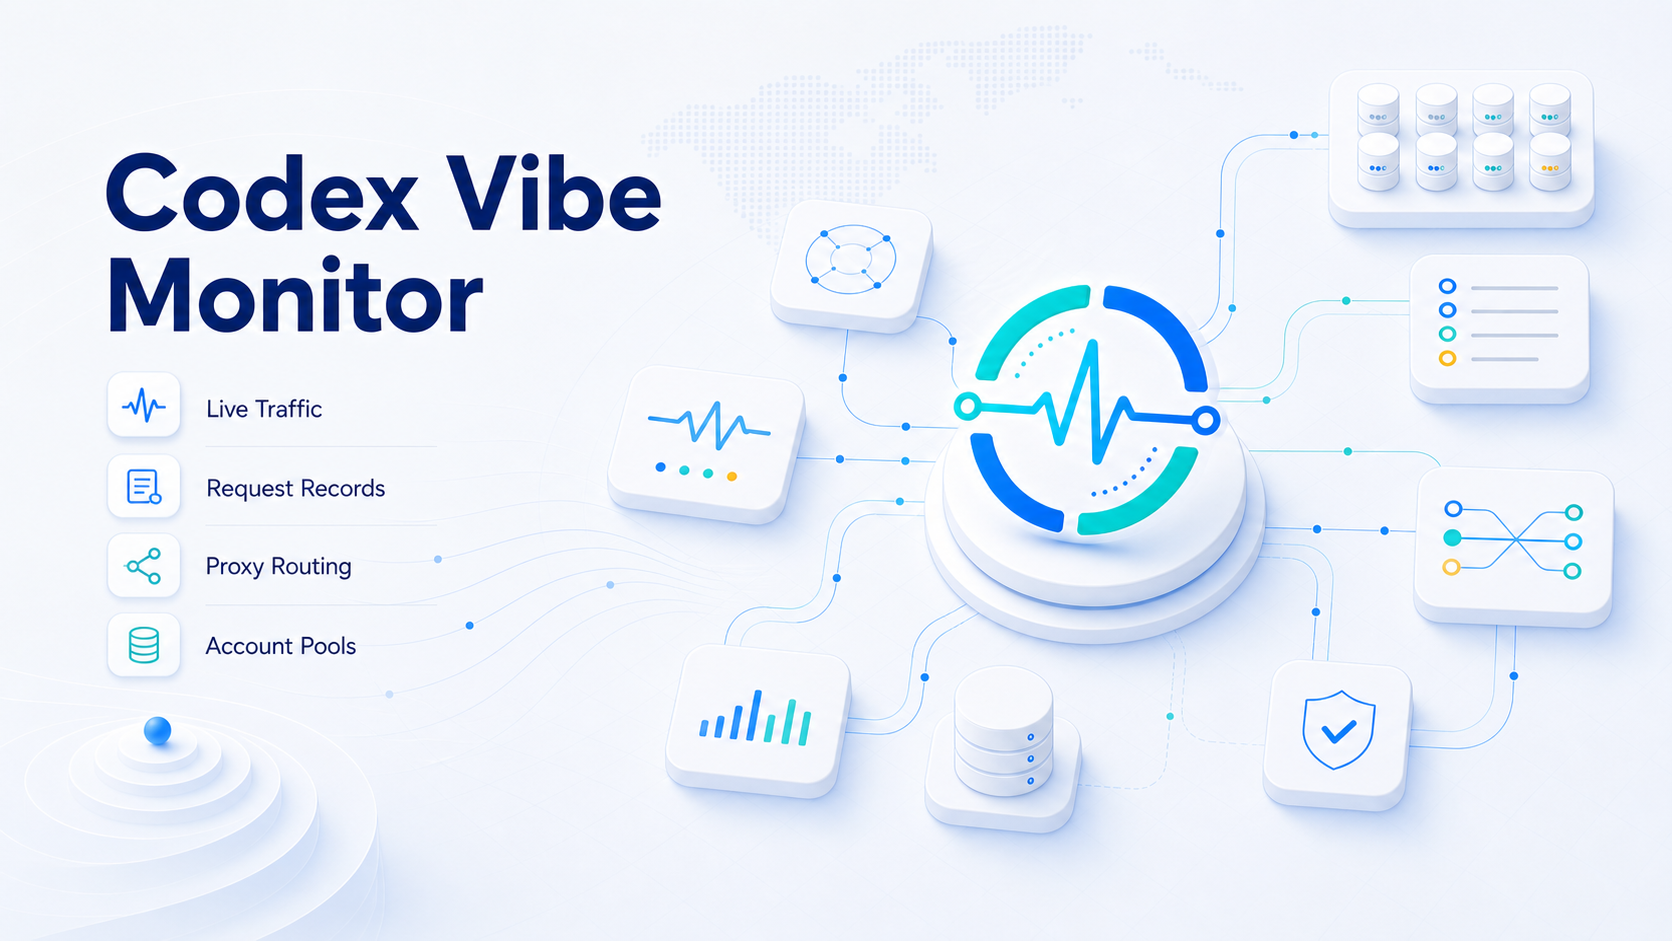
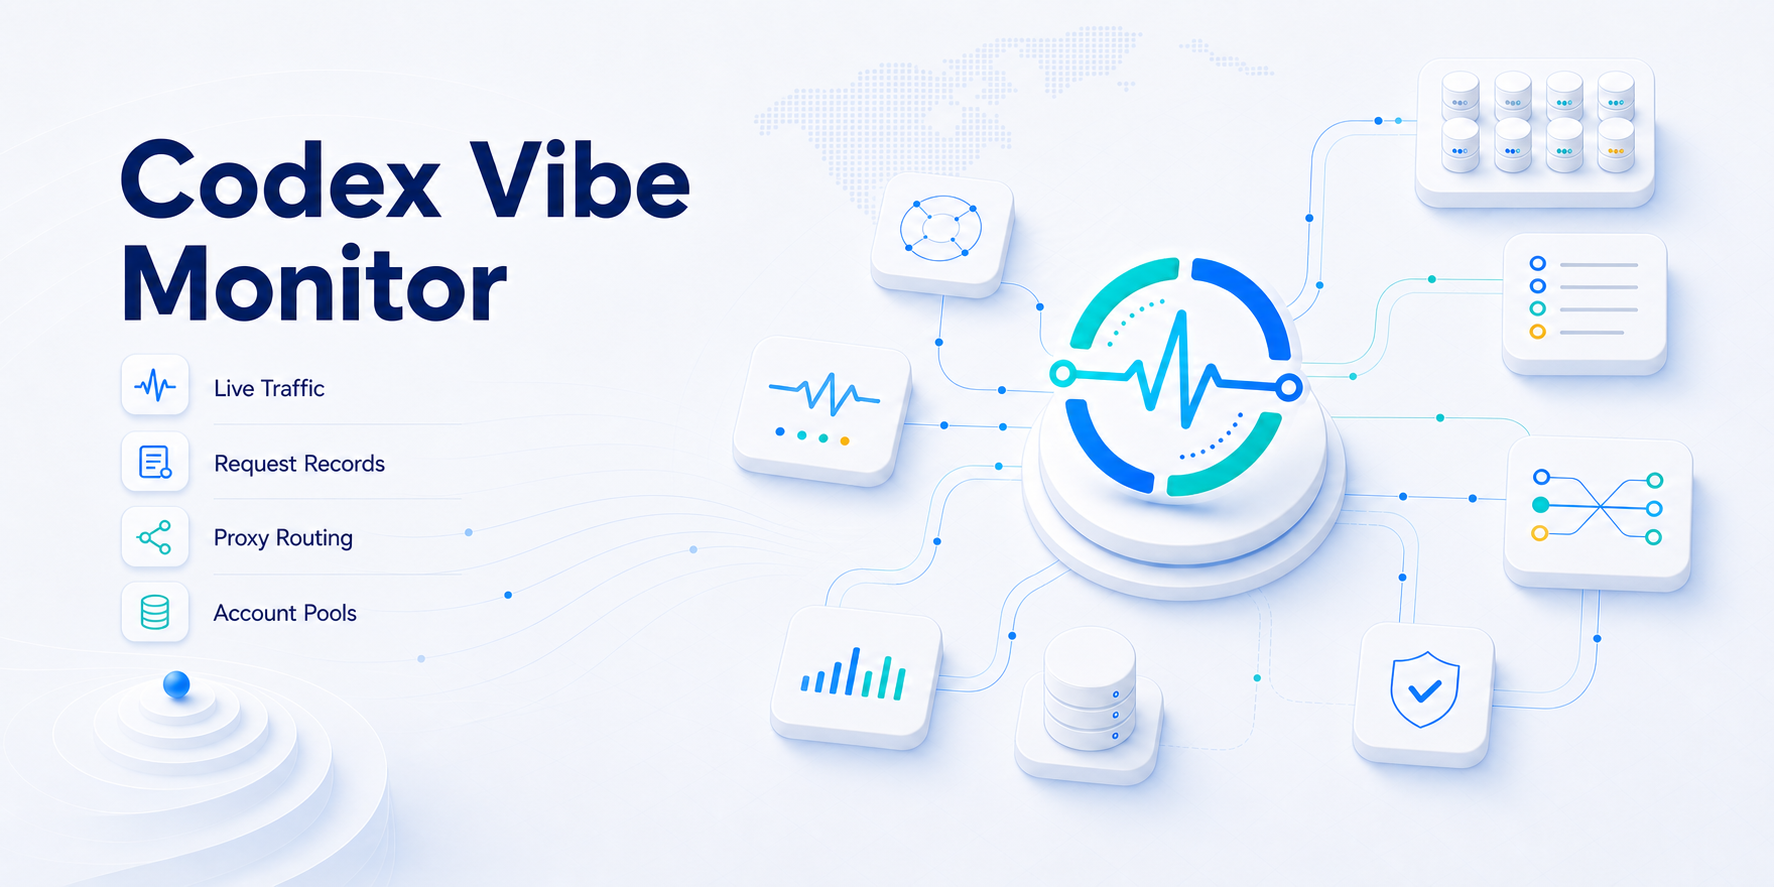
feat(brand): regenerate social preview variants

diff --git a/web/vite.config.ts b/web/vite.config.ts
@@ -120,7 +120,7 @@ export function createAppViteConfig(mode: string): UserConfig {
             screenshots: [
               {
                 src: "social-preview.png",
-                sizes: "1200x630",
+                sizes: "1774x887",
                 type: "image/png",
                 form_factor: "wide",
                 label: "Codex Vibe Monitor dashboard preview",
